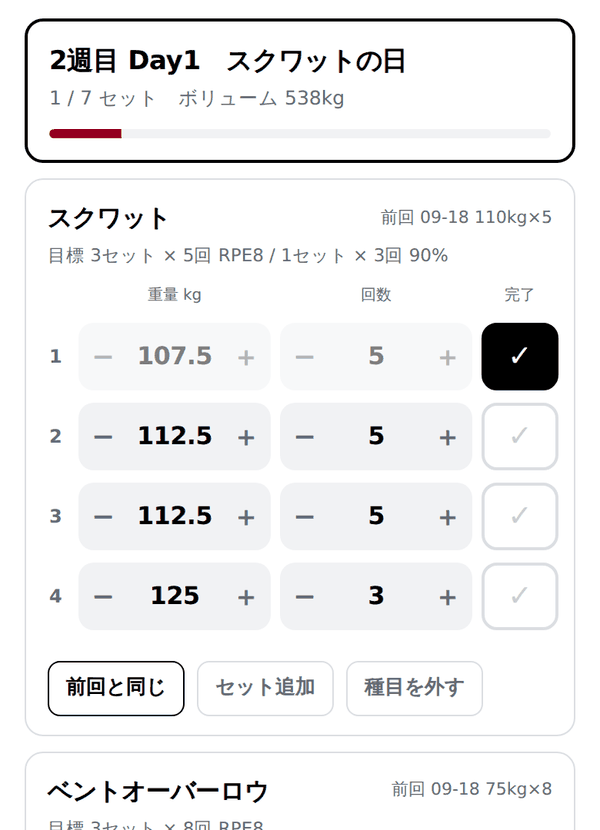
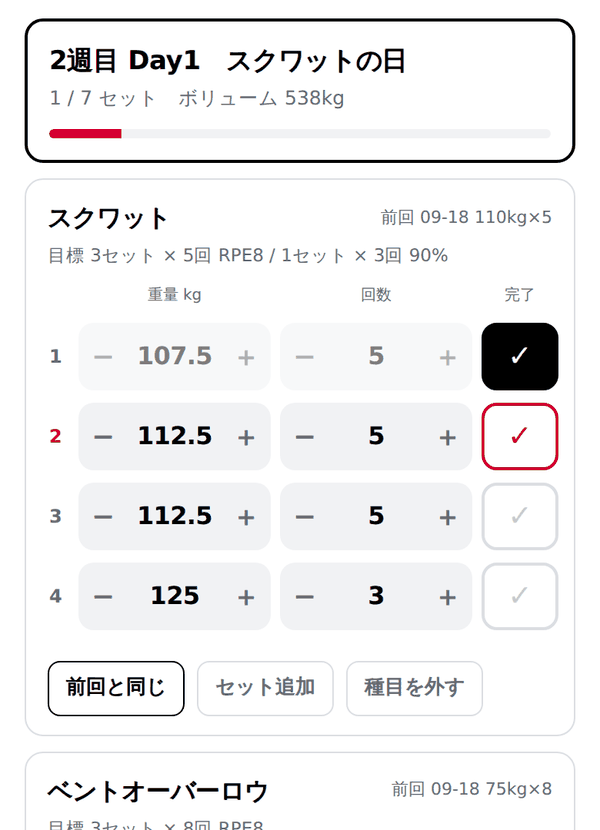
Add files via upload

diff --git a/index.html b/index.html
@@ -92,7 +92,9 @@ label.f{display:block;font-size:12px;color:var(--mute);margin:12px 0 5px}
 .st .stp input{font-size:16px}
 .st .idx{font-size:12px;color:var(--mute);font-weight:700;text-align:center}
 .st .chk{height:44px;border:2px solid var(--line);border-radius:10px;display:flex;align-items:center;
-  justify-content:center;font-size:19px;color:#C9CCD1;font-weight:800}
+  justify-content:center;font-size:19px;color:#C9CCD1;font-weight:800;transition:background .12s,border-color .12s,color .12s}
+.st.next .idx{color:var(--red)}
+.st.next .chk{border-color:var(--red);color:var(--red)}
 .st.done .chk{background:var(--ink);border-color:var(--ink);color:var(--paper)}
 .st.done .stp{opacity:.5}
 .st .u{font-size:10px;color:var(--mute);text-align:center;margin-top:-4px}
@@ -111,6 +113,7 @@ label.f{display:block;font-size:12px;color:var(--mute);margin:12px 0 5px}
   background:var(--ink);color:var(--paper);padding:10px 14px;align-items:center;gap:10px}
 #tbar.on{display:flex}
 body.tmr .stickybar{bottom:calc(126px + var(--safe-b))}
+body.tmr{padding-bottom:calc(126px + var(--safe-b))}
 #tbar .t{font-size:25px;font-weight:800;letter-spacing:-.04em;font-variant-numeric:tabular-nums;min-width:74px}
 #tbar button{color:var(--paper);border:1.5px solid rgba(255,255,255,.45);border-radius:8px;padding:6px 10px;font-size:13px;font-weight:700}
 #tbar .pg{position:absolute;left:0;bottom:0;height:3px;background:var(--red);transition:width .3s linear}
@@ -120,6 +123,7 @@ body.tmr .stickybar{bottom:calc(126px + var(--safe-b))}
   padding:calc(env(safe-area-inset-top,0px) + 10px) 16px calc(var(--safe-b) + 12px)}
 #focus.on{display:flex}
 .fxtop{display:flex;align-items:center;gap:10px;font-size:12px;color:var(--mute)}
+#fxTimer{margin-left:auto;font-size:17px;font-weight:800;color:var(--red);letter-spacing:-.02em}
 .fxex{font-size:25px;font-weight:900;letter-spacing:-.03em;margin-top:10px;line-height:1.15}
 .fxset{font-size:13px;color:var(--mute);margin-top:2px}
 .fxkg{font-size:74px;font-weight:900;letter-spacing:-.06em;line-height:1;font-variant-numeric:tabular-nums}
@@ -205,7 +209,8 @@ table.log td:last-child{text-align:right;font-weight:700}
 </nav>
 
 <div id="focus">
-  <div class="fxtop"><button class="btn sm ghost" data-act="fxclose">閉じる</button><span id="fxProg"></span></div>
+  <div class="fxtop"><button class="btn sm ghost" data-act="fxclose">閉じる</button><span id="fxProg"></span>
+    <span id="fxTimer" class="num"></span></div>
   <div class="fxex" id="fxEx"></div>
   <div class="fxset" id="fxSet"></div>
   <div class="fxmid">
@@ -242,8 +247,9 @@ table.log td:last-child{text-align:right;font-weight:700}
 
 <script>
 'use strict';
-const VER='2.2';
-const CHANGES=[['2.2','「前回と同じ」ボタン / 記録の修正 / 週1の自動バックアップと復元 / 週ごとの総ボリューム'],
+const VER='2.3';
+const CHANGES=[['2.3','✓を押しても画面が先頭に戻らないよう修正 / 次にやるセットを赤く表示 / フォーカス中に残り時間を表示'],
+ ['2.2','「前回と同じ」ボタン / 記録の修正 / 週1の自動バックアップと復元 / 週ごとの総ボリューム'],
  ['2.1','セット完了時にタイマーを自動で開くかどうかを選べるようにした / 右上にバージョンを表示'],
  ['2.0','起動時は必ず「今日」から / メニュー作成を1行構成に簡略化 / ＋−ボタンで入力 / プランに統合 / iPhone標準タイマー連携 / 画面つきマニュアル'],
  ['1.0','初版']];
@@ -362,11 +368,32 @@ function lastLog(exId){
 }
 
 /* ========== 描画 ========== */
-function render(){
+function render(toTop){
+  const y=window.scrollY;
   $('#hdate').textContent=new Date().toLocaleDateString('ja-JP',{month:'numeric',day:'numeric',weekday:'short'});
   document.querySelectorAll('nav button').forEach(b=>b.classList.toggle('on',b.dataset.tab===TAB));
   $('#main').innerHTML=TAB==='today'?vToday():TAB==='build'?vBuild():TAB==='log'?vLog():vSet();
-  window.scrollTo(0,0);
+  window.scrollTo(0,toTop?0:y);
+  if(TAB==='today'&&S.active)markNext();
+}
+/* ✓を押したときは作り直さず、その場で書き換える（画面が飛ばないように） */
+function markNext(){
+  if(!S.active)return; let found=false;
+  document.querySelectorAll('#main .st').forEach(r=>{
+    const it=S.active.items[+r.dataset.i]; if(!it)return;
+    const st=it.sets[+r.dataset.j]; if(!st)return;
+    const isNext=!st.done&&!found; if(isNext)found=true;
+    r.classList.toggle('next',isNext);
+  });
+}
+function refreshHead(){
+  const a=S.active; if(!a)return;
+  let tot=0,dn=0,vol=0;
+  a.items.forEach(it=>it.sets.forEach(x=>{tot++;if(x.done){dn++;vol+=(+x.kg||0)*(+x.reps||0);}}));
+  const hero=document.querySelector('#main .card.hero'); if(!hero)return;
+  const sub=hero.querySelector('.sub'), bar=hero.querySelector('.bar i');
+  if(sub)sub.textContent=dn+' / '+tot+' セット　ボリューム '+Math.round(vol)+'kg';
+  if(bar)bar.style.width=(tot?dn/tot*100:0)+'%';
 }
 function planNext(p){
   const w=p.weeks[p.curW||0]||{scale:100}, d=p.days[p.curD||0];
@@ -561,7 +588,7 @@ function startSession(menuObj,scale,title,src){
       goal:(it.groups||[]).map(g=>gLabel(g)).join(' / '),sets:sets};
   });
   S.active={date:todayStr(),title:title,source:src||null,items:items};
-  save();render();
+  save();render(true);
 }
 function finish(){
   const a=S.active;
@@ -571,7 +598,7 @@ function finish(){
   let vol=0; items.forEach(i=>i.sets.forEach(s=>vol+=s.kg*s.reps));
   S.logs.push({id:uid(),date:a.date,title:a.title,items:items,volume:vol});
   if(a.source){ const p=S.plans.find(x=>x.id===a.source); if(p)advance(p); }
-  S.active=null;save();TAB='log';render();toast('記録しました');
+  S.active=null;save();TAB='log';render(true);toast('記録しました');
 }
 function advance(p){
   let d=(p.curD||0)+1, w=p.curW||0;
@@ -596,10 +623,12 @@ function startRest(sec){
   T.end=Date.now()+sec*1000;T.total=sec;$('#tbar').classList.add('on');document.body.classList.add('tmr');
   clearInterval(T.h);T.h=setInterval(tick,250);tick();
 }
-function stopRest(){clearInterval(T.h);T.h=null;$('#tbar').classList.remove('on');document.body.classList.remove('tmr');}
+function stopRest(){clearInterval(T.h);T.h=null;$('#tbar').classList.remove('on');document.body.classList.remove('tmr');
+  const ft=$('#fxTimer'); if(ft)ft.textContent='';}
 function tick(){
   const left=Math.max(0,Math.round((T.end-Date.now())/1000));
   $('#tval').textContent=mmss(left);
+  const ft=$('#fxTimer'); if(ft)ft.textContent=left>0?('休憩 '+mmss(left)):'';
   $('#tpg').style.width=(T.total?(1-left/T.total)*100:0)+'%';
   if(left<=0){ clearInterval(T.h);T.h=null; setTimeout(stopRest,4000); }
 }
@@ -621,7 +650,7 @@ function timerPanel(){
       '<div class="small mute">オフにすると、✓を押してもタイマーは動きません</div></div>'+
       '<button class="btn sm '+(autoOn()?'fill':'ghost')+'" data-act="autotgl">'+(autoOn()?'オン':'オフ')+'</button></div>'+
       '<div class="small mute" style="margin-top:12px">開始するとiPhoneのショートカットが動き、時計アプリのタイマーが鳴ります。</div>';
-  sheet('レストタイマー',h);
+  sheet('レストタイマー',h,null,true);
 }
 
 /* ========== フォーカス ========== */
@@ -671,8 +700,11 @@ function fxDone(skip){
 }
 
 /* ========== シート ========== */
-function sheet(t,html,after){ $('#shTtl').textContent=t;$('#shBody').innerHTML=html;$('#sheet').classList.add('on');
-  $('#shBody').scrollTop=0; if(after)after(); }
+function sheet(t,html,after,keep){
+  const b=$('#shBody'), y=b.scrollTop;
+  $('#shTtl').textContent=t; b.innerHTML=html; $('#sheet').classList.add('on');
+  b.scrollTop=(typeof keep==='number')?keep:(keep?y:0); if(after)after();
+}
 function closeSheet(){$('#sheet').classList.remove('on');$('#shBody').innerHTML='';}
 
 /* ---- メニュー編集 ---- */
@@ -681,7 +713,7 @@ function editMenu(id){
   ED=id?JSON.parse(JSON.stringify(MENU(id))):{id:uid(),name:'',items:[],_new:true};
   drawMenu();
 }
-function drawMenu(){
+function drawMenu(keep){
   let h='<label class="f">メニュー名</label><input type="text" data-ed="name" value="'+esc(ED.name)+'" placeholder="例）スクワットの日">';
   h+='<h2>種目</h2>';
   ED.items.forEach((it,i)=>{
@@ -700,7 +732,7 @@ function drawMenu(){
   h+='<button class="btn wide" data-ed="addex">＋ 種目を追加</button>'+
     '<button class="btn wide fill" style="margin-top:10px" data-ed="save">保存する</button>'+
     (ED._new?'':'<button class="btn wide ghost" style="margin-top:8px" data-ed="del">このメニューを削除</button>');
-  sheet(ED._new?'メニューを作る':'メニューを編集',h);
+  sheet(ED._new?'メニューを作る':'メニューを編集',h,null,keep);
 }
 function editGroup(i,j){
   const it=ED.items[i], g=j==null?{sets:3,mode:'rpe',reps:5,rpe:8}:JSON.parse(JSON.stringify(it.groups[j]));
@@ -718,7 +750,8 @@ function editGroup(i,j){
     '<div class="note" style="background:var(--field);border-radius:10px;padding:11px;margin-top:14px;font-size:13px">'+
     esc(gLabel(g))+'　→　今日の推奨 '+(gTarget(g,it.exId,100)||'—')+'kg</div>'+
     '<button class="btn wide fill" style="margin-top:12px" data-g="ok">この構成にする</button>';
-  const open=()=>sheet(EX(it.exId).name,body());
+  let first=true;
+  const open=()=>{ sheet(EX(it.exId).name,body(),null,!first); first=false; };
   ED._g={i:i,j:j,g:g,redraw:open}; open();
 }
 function pickEx(cb,multi){
@@ -752,7 +785,7 @@ function editPlan(id){
      weeks:[{label:'1週目',scale:100,deload:false}],curW:0,curD:0,_new:true};
   drawPlan();
 }
-function drawPlan(){
+function drawPlan(keep){
   let h='<label class="f">プラン名</label><input type="text" data-pl="name" value="'+esc(ED.name)+'" placeholder="例）週3 A/B/C">';
   h+='<h2>回す順番</h2>';
   ED.days.forEach((d,i)=>{
@@ -783,7 +816,7 @@ function drawPlan(){
     '<select class="grow" data-pl="curd">'+ED.days.map((d,i)=>'<option value="'+i+'"'+((ED.curD||0)===i?' selected':'')+'>'+esc(d.label)+'</option>').join('')+'</select></div>';
   h+='<button class="btn wide fill" style="margin-top:14px" data-pl="save">保存する</button>'+
     (ED._new?'':'<button class="btn wide ghost" style="margin-top:8px" data-pl="del">このプランを削除</button>');
-  sheet(ED._new?'プランを作る':'プランを編集',h);
+  sheet(ED._new?'プランを作る':'プランを編集',h,null,keep);
 }
 const opts=sel=>'<option value="">未設定</option>'+S.menus.map(m=>'<option value="'+m.id+'"'+(m.id===sel?' selected':'')+'>'+esc(m.name)+'</option>').join('');
 
@@ -850,6 +883,7 @@ const MAN=[
  ['today','今日のトレーニング',
   '<p>「今日」タブの赤いボタンを押すだけで始まります。プランを作ってあれば、次にやる日が自動で表示されます。</p>'+
   '<img class="shot" src="man-session.png" alt="セッション画面">'+
+  '<p><b>次にやるセットは番号と✓が赤</b>になります。今どこまで終わったか、画面を見た瞬間に分かります。</p>'+
   '<p>重量と回数は＋−ボタンで変えられます。キーボードを出さずに片手で操作できます。'+
   '右の<b>✓</b>を押すとそのセットが完了になり、休憩タイマーが自動で始まります。</p>'+
   '<div class="note"><b>前回◯◯kg×◯</b>種目名の右に、その種目の前回の実績が出ます。</div>'+
@@ -937,7 +971,7 @@ function drawTour(){
 
 /* ========== イベント ========== */
 document.addEventListener('click',ev=>{
-  const nv=ev.target.closest('nav button'); if(nv){TAB=nv.dataset.tab;render();return;}
+  const nv=ev.target.closest('nav button'); if(nv){TAB=nv.dataset.tab;render(true);return;}
   const t=ev.target.closest('[data-act]'); if(t){ act(t,ev); return; }
   const g=ev.target.closest('[data-g]'); if(g){ grp(g); return; }
   const m=ev.target.closest('[data-man]'); if(m){ manual(m.dataset.man); return; }
@@ -958,9 +992,13 @@ function act(t,ev){
     startSession(n.menu,sc,(p.weeks.length>1?n.w.label+' ':'')+n.d.label+'　'+n.menu.name,p.id);return; }
   if(a==='skipday'){ const p=S.plans.find(x=>x.id===id);advance(p);render();return; }
   if(a==='chk'){ const r=t.closest('.st'),it=S.active.items[+r.dataset.i],s=it.sets[+r.dataset.j];
-    s.done=!s.done;
-    if(s.done){ const ip=r.querySelectorAll('input'); s.kg=+ip[0].value||0;s.reps=+ip[1].value||0; save();render();autoRest(it.rest); }
-    else {save();render();} return; }
+    if(document.activeElement&&document.activeElement.blur)document.activeElement.blur();
+    s.done=!s.done; r.classList.toggle('done',s.done);
+    if(s.done){ const ip=r.querySelectorAll('input'); s.kg=+ip[0].value||0;s.reps=+ip[1].value||0;
+      if(!ip[0].value&&s.kg)ip[0].value=fmt(s.kg); if(!ip[1].value&&s.reps)ip[1].value=s.reps; }
+    save(); refreshHead(); markNext();
+    if(s.done)autoRest(it.rest);
+    return; }
   if(a==='nudge'){ const r=t.closest('.st'),s=S.active.items[+r.dataset.i].sets[+r.dataset.j],f=t.dataset.f;
     const inp=r.querySelector('input[data-f="'+f+'"]');
     const stp=f==='kg'?(S.settings.round||2.5):1;
@@ -978,7 +1016,7 @@ function act(t,ev){
       {exId:x,rest:EX(x).rest,goal:'自由',sets:[{kg:'',reps:'',rpe:'',done:false}]})); save();render(); },true);return; }
   if(a==='focus'){ openFocus();return; }
   if(a==='finish'){ finish();return; }
-  if(a==='cancel'){ if(confirm('このセッションを破棄しますか？')){S.active=null;save();render();} return; }
+  if(a==='cancel'){ if(confirm('このセッションを破棄しますか？')){S.active=null;save();render(true);} return; }
   if(a==='fxclose'){ $('#focus').classList.remove('on');render();return; }
   if(a==='fxdone'){ fxDone(false);return; }
   if(a==='fxskip'){ fxDone(true);return; }
@@ -1067,23 +1105,24 @@ function grp(t){
   if(k==='ok'){ read();
     const it=ED.items[G.i];
     if(G.j==null)it.groups.push(G.g); else it.groups[G.j]=G.g;
-    ED._g=null; drawMenu(); return; }
+    ED._g=null; drawMenu(ED._y||0); return; }
 }
 function med(t){
   const k=t.dataset.ed, row=t.closest('[data-i]'), i=row?+row.dataset.i:+t.dataset.i, j=row&&row.dataset.j!=null?+row.dataset.j:null;
   const nm=$('#shBody').querySelector('[data-ed="name"]'); if(nm)ED.name=nm.value;
+  ED._y=$('#shBody').scrollTop;
   if(k==='addex'){ pickEx(ids=>{ (Array.isArray(ids)?ids:[ids]).forEach(x=>ED.items.push(
-      {exId:x,rest:EX(x).rest,groups:[{sets:3,mode:'rpe',reps:5,rpe:8}]})); drawMenu(); },true);return; }
-  if(k==='rmex'){ ED.items.splice(i,1);drawMenu();return; }
+      {exId:x,rest:EX(x).rest,groups:[{sets:3,mode:'rpe',reps:5,rpe:8}]})); drawMenu(ED._y||0); },true);return; }
+  if(k==='rmex'){ ED.items.splice(i,1);drawMenu(1);return; }
   if(k==='addg'){ editGroup(i,null);return; }
   if(k==='editg'){ editGroup(i,j);return; }
-  if(k==='rmg'){ const it=ED.items[i]; it.groups.splice(j,1); if(!it.groups.length)it.groups.push({sets:3,mode:'rpe',reps:5,rpe:8}); drawMenu();return; }
-  if(k==='rest'){ const v=prompt('休憩の秒数',ED.items[i].rest||180); if(v!=null){ED.items[i].rest=+v||180;drawMenu();} return; }
+  if(k==='rmg'){ const it=ED.items[i]; it.groups.splice(j,1); if(!it.groups.length)it.groups.push({sets:3,mode:'rpe',reps:5,rpe:8}); drawMenu(1);return; }
+  if(k==='rest'){ const v=prompt('休憩の秒数',ED.items[i].rest||180); if(v!=null){ED.items[i].rest=+v||180;drawMenu(1);} return; }
   if(k==='save'){ if(!ED.name)ED.name='無題のメニュー';
     if(!ED.items.length){toast('種目を追加してください');return;}
     const nw=ED._new;delete ED._new;
     if(nw)S.menus.push(ED); else S.menus=S.menus.map(m=>m.id===ED.id?ED:m);
-    save();closeSheet();TAB='build';render();toast('保存しました');return; }
+    save();closeSheet();TAB='build';render(true);toast('保存しました');return; }
   if(k==='del'){ if(confirm('このメニューを削除しますか？')){S.menus=S.menus.filter(m=>m.id!==ED.id);save();closeSheet();render();} return; }
 }
 function pld(t){
@@ -1096,18 +1135,18 @@ function pld(t){
     const cw=b.querySelector('[data-pl="curw"]'),cd=b.querySelector('[data-pl="curd"]');
     if(cw)ED.curW=+cw.value||0; if(cd)ED.curD=+cd.value||0; };
   rd();
-  if(k==='addday'){ ED.days.push({label:'Day'+(ED.days.length+1),menuId:S.menus[0]?S.menus[0].id:''});drawPlan();return; }
-  if(k==='rmday'){ if(ED.days.length<2){toast('最低1日は必要です');return;} ED.days.splice(i,1);ED.curD=0;drawPlan();return; }
+  if(k==='addday'){ ED.days.push({label:'Day'+(ED.days.length+1),menuId:S.menus[0]?S.menus[0].id:''});drawPlan(1);return; }
+  if(k==='rmday'){ if(ED.days.length<2){toast('最低1日は必要です');return;} ED.days.splice(i,1);ED.curD=0;drawPlan(1);return; }
   if(k==='addweek'){ ED.weeks.push({label:(ED.weeks.length+1)+'週目',scale:100,deload:false});
-    if(ED.weeks.length===2)ED.weeks[0].label='1週目'; drawPlan();return; }
-  if(k==='rmweek'){ if(ED.weeks.length<2)return; ED.weeks.splice(i,1);ED.curW=0;drawPlan();return; }
+    if(ED.weeks.length===2)ED.weeks[0].label='1週目'; drawPlan(1);return; }
+  if(k==='rmweek'){ if(ED.weeks.length<2)return; ED.weeks.splice(i,1);ED.curW=0;drawPlan(1);return; }
   if(k==='tpl4'){ ED.weeks=[{label:'1週目',scale:100},{label:'2週目',scale:102.5},{label:'3週目',scale:105},{label:'デロード',scale:85,deload:true}];
-    ED.curW=0;drawPlan();return; }
-  if(k==='wn'){ const w=ED.weeks[i]; w.scale=Math.max(50,(+w.scale||100)+(+t.dataset.v)); drawPlan();return; }
+    ED.curW=0;drawPlan(1);return; }
+  if(k==='wn'){ const w=ED.weeks[i]; w.scale=Math.max(50,(+w.scale||100)+(+t.dataset.v)); drawPlan(1);return; }
   if(k==='save'){ if(!ED.name)ED.name='無題のプラン';
     const nw=ED._new;delete ED._new;
     if(nw)S.plans.push(ED); else S.plans=S.plans.map(p=>p.id===ED.id?ED:p);
-    save();closeSheet();TAB='build';render();toast('保存しました');return; }
+    save();closeSheet();TAB='build';render(true);toast('保存しました');return; }
   if(k==='del'){ if(confirm('このプランを削除しますか？')){S.plans=S.plans.filter(p=>p.id!==ED.id);save();closeSheet();render();} return; }
 }
 document.addEventListener('input',ev=>{

diff --git a/sw.js b/sw.js
@@ -1,5 +1,5 @@
-/* キャッシュ名を変えると更新が配信されます（rack-v5 → rack-v6 …） */
-const CACHE = 'rack-v5';
+/* キャッシュ名を変えると更新が配信されます（rack-v6 → rack-v7 …） */
+const CACHE = 'rack-v6';
 const ASSETS = ['./','./index.html','./manifest.json',
   './icon-180.png','./icon-192.png','./icon-512.png','./icon-maskable-512.png',
   './man-today.png','./man-menu.png','./man-group.png','./man-session.png',
